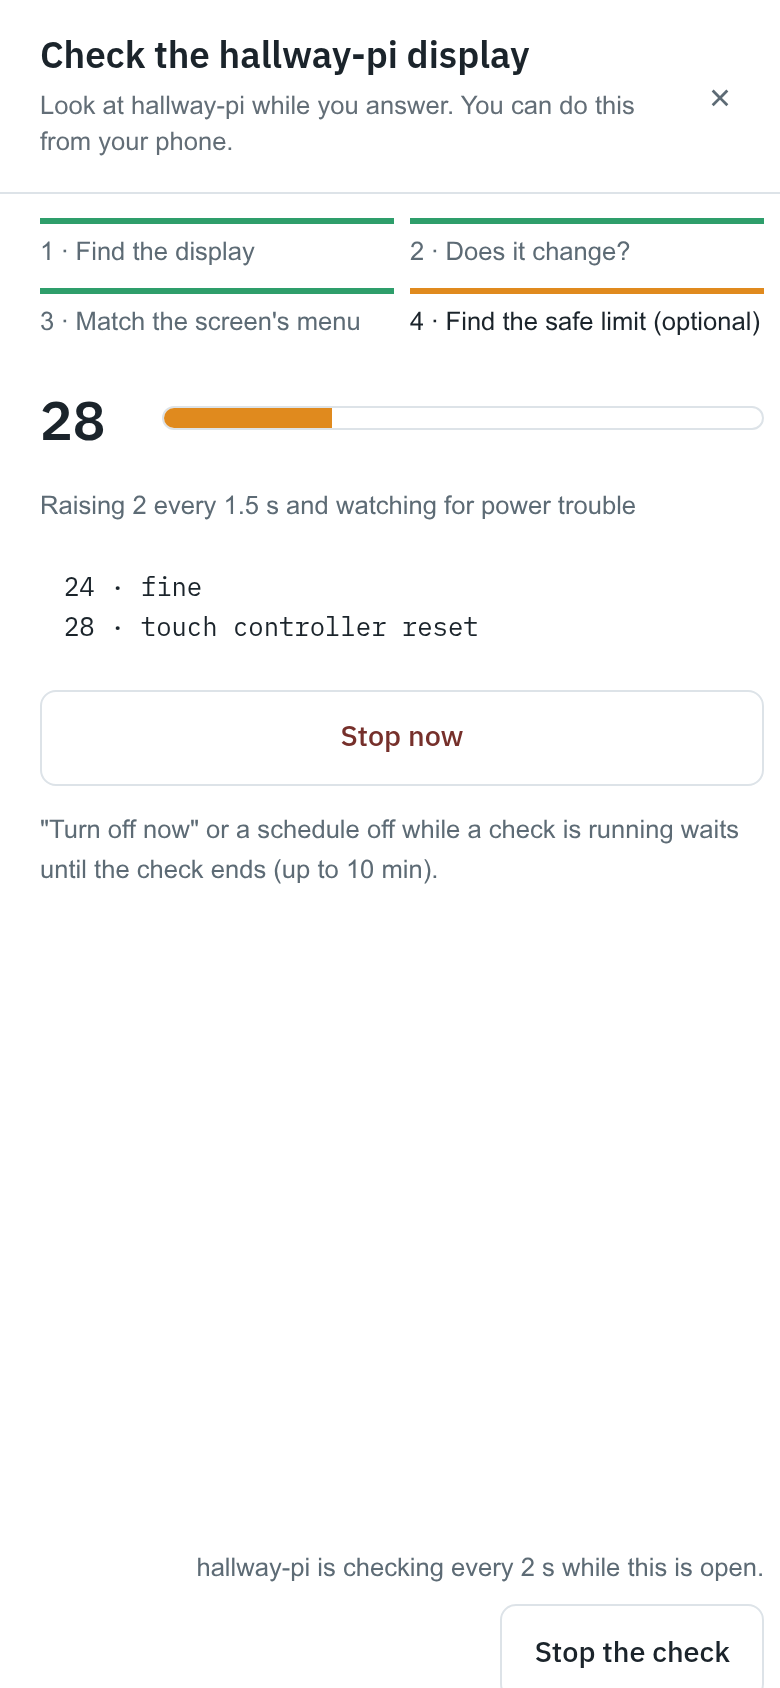
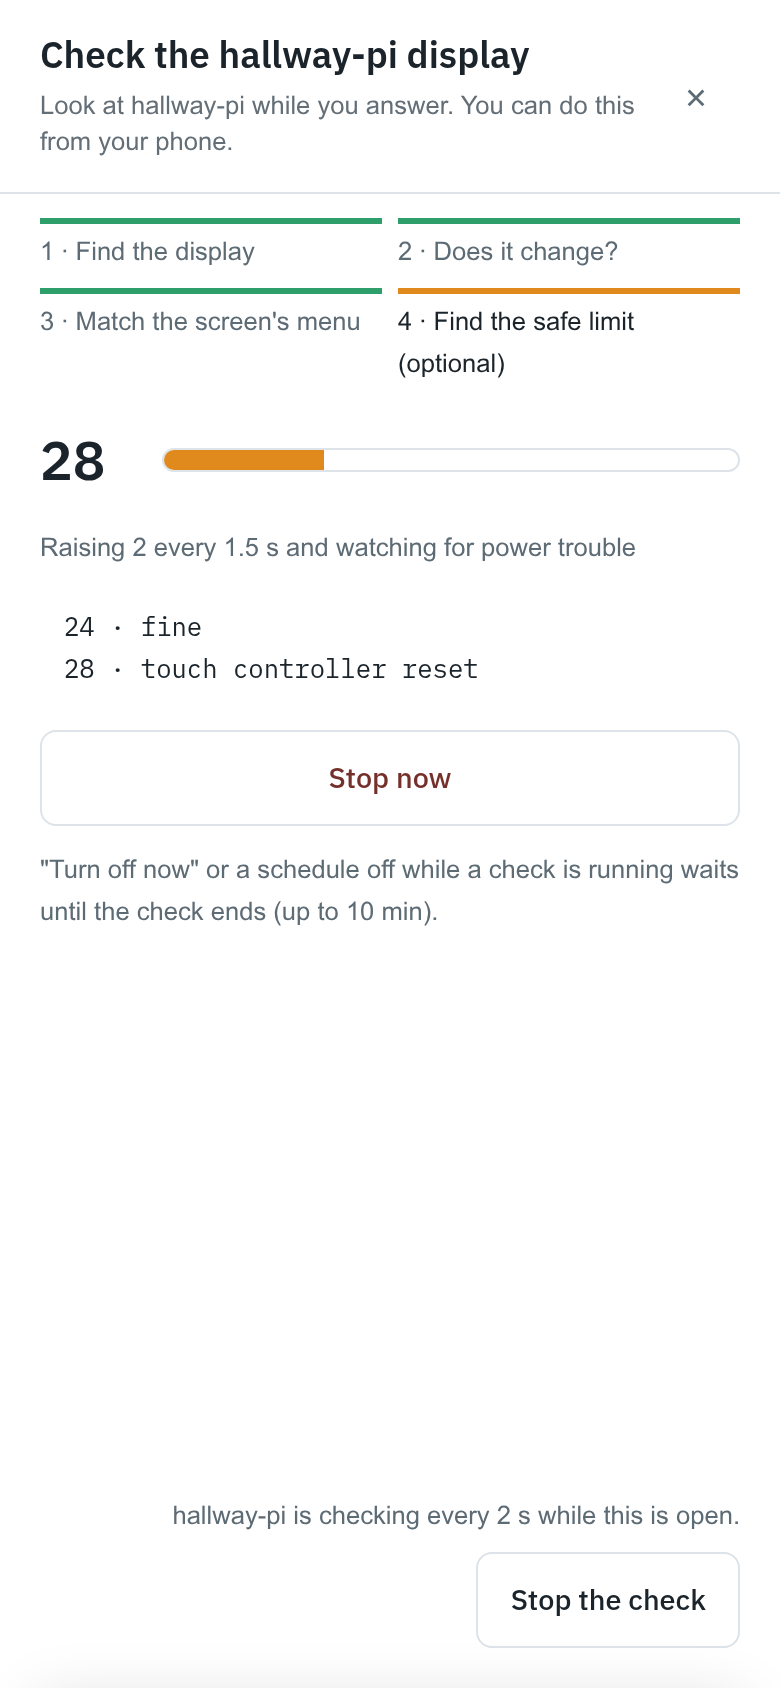
fix(frontend): limit copy, leave-without-saving question, phone footer gutter and safe area (calvin-29ws)

diff --git a/frontend/src/components/settings/shared/DisplayCheckDialog.vue b/frontend/src/components/settings/shared/DisplayCheckDialog.vue
@@ -235,7 +235,8 @@
             <p class="dcheck__lead">Find the safe limit</p>
             <p class="dcheck__sub">
               Calvin raises the brightness until the power supply shows trouble. Then it steps back
-              down and remembers that level as {{ screenName }}'s limit. Calvin never goes above it.
+              down and offers that level as {{ screenName }}'s limit. Once you save it, Calvin never
+              goes above it.
             </p>
             <InlineNote tone="warn">
               While it runs, the screen may flicker, its touch may stop for a few seconds, and in
@@ -313,16 +314,29 @@
       </div>
     </div>
 
+    <ConfirmModal
+      :show="confirmLeave"
+      title="Leave without saving?"
+      :message="`Leave without saving limit ${limitFound}?`"
+      confirm-text="Save"
+      alternative-text="Leave"
+      @confirm="leaveSaving"
+      @alternative="leaveWithout"
+      @cancel="confirmLeave = false"
+    />
+
     <template #actions>
-      <span v-if="check.isActive.value" class="dcheck__footer-note" role="status">
-        {{ screenName }} is checking every 2 s while this is open.
-      </span>
-      <Button v-if="check.isActive.value" data-test="check-stop" @click="check.stop()">
-        Stop the check
-      </Button>
-      <Button v-if="view === 'finish'" variant="primary" data-test="check-done" @click="close">
-        Done
-      </Button>
+      <div class="dcheck__actions" :class="{ 'dcheck__actions--full': phone }">
+        <span v-if="check.isActive.value" class="dcheck__footer-note" role="status">
+          {{ screenName }} is checking every 2 s while this is open.
+        </span>
+        <Button v-if="check.isActive.value" data-test="check-stop" @click="check.stop()">
+          Stop the check
+        </Button>
+        <Button v-if="view === 'finish'" variant="primary" data-test="check-done" @click="close">
+          Done
+        </Button>
+      </div>
     </template>
   </Dialog>
 </template>
@@ -330,6 +344,7 @@
 <script setup>
 import { computed, onBeforeUnmount, ref, toRef, watch } from "vue";
 import Button from "@/components/ui/Button.vue";
+import ConfirmModal from "@/components/ui/ConfirmModal.vue";
 import Dialog from "@/components/ui/Dialog.vue";
 import InlineNote from "@/components/ui/InlineNote.vue";
 import { useDisplayCheck } from "@/composables/useDisplayCheck";
@@ -744,13 +759,40 @@ watch(
   }
 );
 
+// A found limit nobody saved yet: leaving would lose it, so ask first.
+const confirmLeave = ref(false);
+const unsavedLimit = computed(
+  () => view.value === "finish" && limitFound.value != null && !limitSaved.value
+);
+
 function onDialogModel(value) {
+  if (value === false && unsavedLimit.value) {
+    confirmLeave.value = true;
+    return;
+  }
   emit("update:modelValue", value);
 }
+
 // Done ends the session itself; closing the dialog any other way does too.
-async function close() {
+async function endAndClose() {
+  confirmLeave.value = false;
   if (check.isActive.value && check.ownsRun.value) await check.stop();
   emit("update:modelValue", false);
+}
+function close() {
+  if (unsavedLimit.value) {
+    confirmLeave.value = true;
+    return;
+  }
+  return endAndClose();
+}
+async function leaveSaving() {
+  await saveLimit();
+  if (limitSaved.value) await endAndClose();
+  else confirmLeave.value = false;
+}
+function leaveWithout() {
+  return endAndClose();
 }
 </script>
 
@@ -872,6 +914,19 @@ async function close() {
   bottom: 0;
   width: 2px;
   background: var(--err);
+}
+.dcheck__actions {
+  display: flex;
+  flex: 1 1 auto;
+  flex-wrap: wrap;
+  align-items: center;
+  justify-content: flex-end;
+  gap: var(--gap-inline);
+}
+/* The full-screen phone sheet: the dialog footer already has the body's gutter;
+   this clears the home indicator so Done is never clipped. */
+.dcheck__actions--full {
+  padding-bottom: env(safe-area-inset-bottom);
 }
 .dcheck__log {
   margin: 0;

diff --git a/frontend/tests/unit/components/settings/DisplayCheckDialog.spec.js b/frontend/tests/unit/components/settings/DisplayCheckDialog.spec.js
@@ -419,15 +419,80 @@ describe("DisplayCheckDialog step 4: safe limit", () => {
     expect(find(wrapper, "limit-pending-note").exists()).toBe(false);
   });
 
-  it("Done without saving ends the session and keeps the old limit", async () => {
+  async function toUnsavedLimit() {
     await toStep4();
     await click(wrapper, "limit-start");
     agentStep("limit", { level: 19, limit: 26 });
     await settle();
+  }
+
+  it("Done with an unsaved limit asks before leaving, and nothing happens yet", async () => {
+    await toUnsavedLimit();
     await click(wrapper, "check-done");
-    expect(posts("stop")).toHaveLength(1);
+    expect(wrapper.text()).toContain("Leave without saving limit 26?");
+    expect(posts("stop")).toHaveLength(0);
     expect(posts("save-limit")).toHaveLength(0);
+    expect(wrapper.emitted("update:modelValue")).toBeUndefined();
+  });
+
+  it("Save in that question saves the limit, ends the session and closes", async () => {
+    await toUnsavedLimit();
+    await click(wrapper, "check-done");
+    await click(wrapper, "confirm-accept");
+    expect(posts("save-limit")).toHaveLength(1);
+    expect(wrapper.emitted("saved-limit")[0][0]).toBe(26);
+    expect(posts("stop")).toHaveLength(1);
     expect(wrapper.emitted("update:modelValue").at(-1)).toEqual([false]);
+  });
+
+  it("Leave in that question ends the session without saving and keeps the old limit", async () => {
+    await toUnsavedLimit();
+    await click(wrapper, "check-done");
+    await click(wrapper, "confirm-alternative");
+    expect(posts("save-limit")).toHaveLength(0);
+    expect(posts("stop")).toHaveLength(1);
+    expect(wrapper.emitted("update:modelValue").at(-1)).toEqual([false]);
+  });
+
+  it("Cancel in that question stays on the finish screen", async () => {
+    await toUnsavedLimit();
+    await click(wrapper, "check-done");
+    await click(wrapper, "confirm-cancel");
+    expect(find(wrapper, "limit-save").exists()).toBe(true);
+    expect(posts("stop")).toHaveLength(0);
+    expect(wrapper.emitted("update:modelValue")).toBeUndefined();
+  });
+
+  it("the × asks the same question", async () => {
+    await toUnsavedLimit();
+    wrapper.findComponent({ name: "Dialog" }).vm.$emit("update:modelValue", false);
+    await flushPromises();
+    expect(wrapper.text()).toContain("Leave without saving limit 26?");
+    expect(wrapper.emitted("update:modelValue")).toBeUndefined();
+  });
+
+  it("closes without asking once the limit is saved", async () => {
+    await toUnsavedLimit();
+    await click(wrapper, "limit-save");
+    await click(wrapper, "check-done");
+    expect(wrapper.text()).not.toContain("Leave without saving");
+    expect(posts("stop")).toHaveLength(1);
+    expect(wrapper.emitted("update:modelValue").at(-1)).toEqual([false]);
+  });
+
+  it("Done with no limit found closes without asking", async () => {
+    await toStep4();
+    await click(wrapper, "limit-skip");
+    await click(wrapper, "check-done");
+    expect(wrapper.text()).not.toContain("Leave without saving");
+    expect(wrapper.emitted("update:modelValue").at(-1)).toEqual([false]);
+  });
+
+  it("explains the limit as offered, and applied once saved", async () => {
+    await toStep4();
+    expect(wrapper.text()).toContain(
+      "Then it steps back down and offers that level as Kitchen's limit. Once you save it, Calvin never goes above it."
+    );
   });
 
   it("keeps the button and shows an error when saving fails, without changing any setting", async () => {

diff --git a/frontend/tests/e2e/phone/brightness-display-check.spec.js b/frontend/tests/e2e/phone/brightness-display-check.spec.js
@@ -213,6 +213,14 @@ for (const [size, viewport] of SIZES) {
       await expect(body(page).locator('[data-test="limit-pending-note"]')).toBeVisible();
       expect(api.overridesByKiosk.hallway?.brightnessLimit).toBeUndefined();
       expect(api.displayCheckCalls).not.toContain("POST save-limit");
+      // The footer keeps the body's gutter and Done is not clipped at the bottom.
+      const done = await page.locator('[data-test="check-done"]').boundingBox();
+      const view = await page.evaluate(() => ({ w: innerWidth, h: innerHeight }));
+      // The layout must not have grown past the screen (a long Changed-here line did that).
+      expect(view.w).toBe(viewport ? viewport.width : 390);
+      expect(done.x + done.width).toBeLessThanOrEqual(view.w - 19);
+      // The 800x480 kiosk sheet scrolls; the full-screen phone sheet must fit.
+      if (!viewport) expect(done.y + done.height).toBeLessThanOrEqual(view.h - 8);
       await shot(page, size, "check-finished");
       await page.getByRole("button", { name: /^Save 26 as .* limit$/ }).click();
       await expect.poll(() => api.overridesByKiosk.hallway?.brightnessLimit).toBe(26);

diff --git a/frontend/tests/unit/components/settings/ChangedHereLine.wrap.spec.js b/frontend/tests/unit/components/settings/ChangedHereLine.wrap.spec.js
@@ -1,0 +1,26 @@
+import { describe, it, expect } from "vitest";
+import { mount } from "@vue/test-utils";
+import ChangedHereLine from "@/components/settings/shared/ChangedHereLine.vue";
+
+describe("ChangedHereLine wrapping", () => {
+  it("keeps each name whole and leaves a breakable space between names", () => {
+    const wrapper = mount(ChangedHereLine, {
+      props: {
+        items: [
+          { key: "brightnessRampEnabled", label: "Ramp brightness at sleep and wake" },
+          { key: "brightness", label: "Brightness" },
+          { key: "brightnessLimit", label: "Brightness limit" },
+        ],
+      },
+    });
+    const links = wrapper.findAll("a");
+    expect(links.map(link => link.text())).toEqual([
+      "Ramp brightness at sleep and wake",
+      "Brightness",
+      "Brightness limit",
+    ]);
+    expect(wrapper.text().replace(/\s+/g, " ")).toBe(
+      "Changed here: Ramp brightness at sleep and wake, Brightness, Brightness limit"
+    );
+  });
+});

diff --git a/frontend/src/components/settings/shared/ChangedHereLine.vue b/frontend/src/components/settings/shared/ChangedHereLine.vue
@@ -1,14 +1,17 @@
 <!-- frontend/src/components/settings/shared/ChangedHereLine.vue -->
 <template>
   <p v-if="items.length > 0" class="changed-here" data-test="changed-here-line">
-    <span class="changed-here__label">Changed here:</span>&nbsp;<a
+    <span class="changed-here__label">Changed here:</span>&nbsp;<template
       v-for="(item, index) in items"
       :key="item.key"
-      class="changed-here__link"
-      :href="`#${rowAnchorId(item.key)}`"
-      :data-test="`changed-here-${item.key}`"
-      @click.prevent="jumpTo(item.key)"
-      >{{ index > 0 ? ", " : "" }}{{ item.label }}</a
+      ><span v-if="index > 0">{{ ", " }}</span
+      ><a
+        class="changed-here__link"
+        :href="`#${rowAnchorId(item.key)}`"
+        :data-test="`changed-here-${item.key}`"
+        @click.prevent="jumpTo(item.key)"
+        >{{ item.label }}</a
+      ></template
     >
   </p>
 </template>

diff --git a/docs/design/2026-11-04-brightness-ramp-ui.md b/docs/design/2026-11-04-brightness-ramp-ui.md
@@ -106,8 +106,8 @@ other and step 4 is optional, so the numbers are a real sequence:
      line by more than 5 menu units, it says "These readings don't line up. Check the last one".
    - **Add a reading** sets the next point. **Next** needs at least two readings. **Skip this step** is allowed.
 4. **Find the safe limit** (optional). Before it starts, a plain warning (fig. 6): "Calvin raises the brightness until
-   the power supply shows trouble. Then it steps back down and remembers that level as Kitchen's limit. Calvin never
-   goes above it. While it runs, the screen may flicker, its touch may stop for a few seconds, and in the worst case
+   the power supply shows trouble. Then it steps back down and offers that level as Kitchen's limit. Once you save it,
+   Calvin never goes above it. While it runs, the screen may flicker, its touch may stop for a few seconds, and in the worst case
    it may restart." The buttons are **Start the test** and **Skip, finish**.
    - **On the panel itself** (the browser's kiosk id is the screen being checked), Start is replaced by a red note:
      "You're on Kitchen itself. Run this step from your phone or computer, because the touch screen can stop
@@ -122,8 +122,12 @@ other and step 4 is optional, so the numbers are a real sequence:
      then the result once the agent reports it.
 
 **Finish screen.** It lists what was found, with a tick or a warning per line, and what changes because of it: "The
-Brightness slider now shows the screen's menu numbers" and "Brightness can go up to 67". Its button is **Done**. All
-results are saved per screen and appear in the Display check row and in History.
+Brightness slider now shows the screen's menu numbers". A found limit is only offered: the primary button is **Save 26
+as Kitchen's limit**, with a quiet note that the old limit stays until it is saved. Once saved, the screen says
+"Brightness can go up to 67". Its other button is **Done**: with an unsaved limit, Done (and ×) asks "Leave without
+saving limit 26?" with **Save** / **Leave** (Cancel stays). Saved results are per screen and appear in the Display
+check row and in History. On a phone the footer keeps the body's gutter and clears the safe area at the bottom, so Done
+is never clipped.
 
 **Rules for the whole dialog**
 
